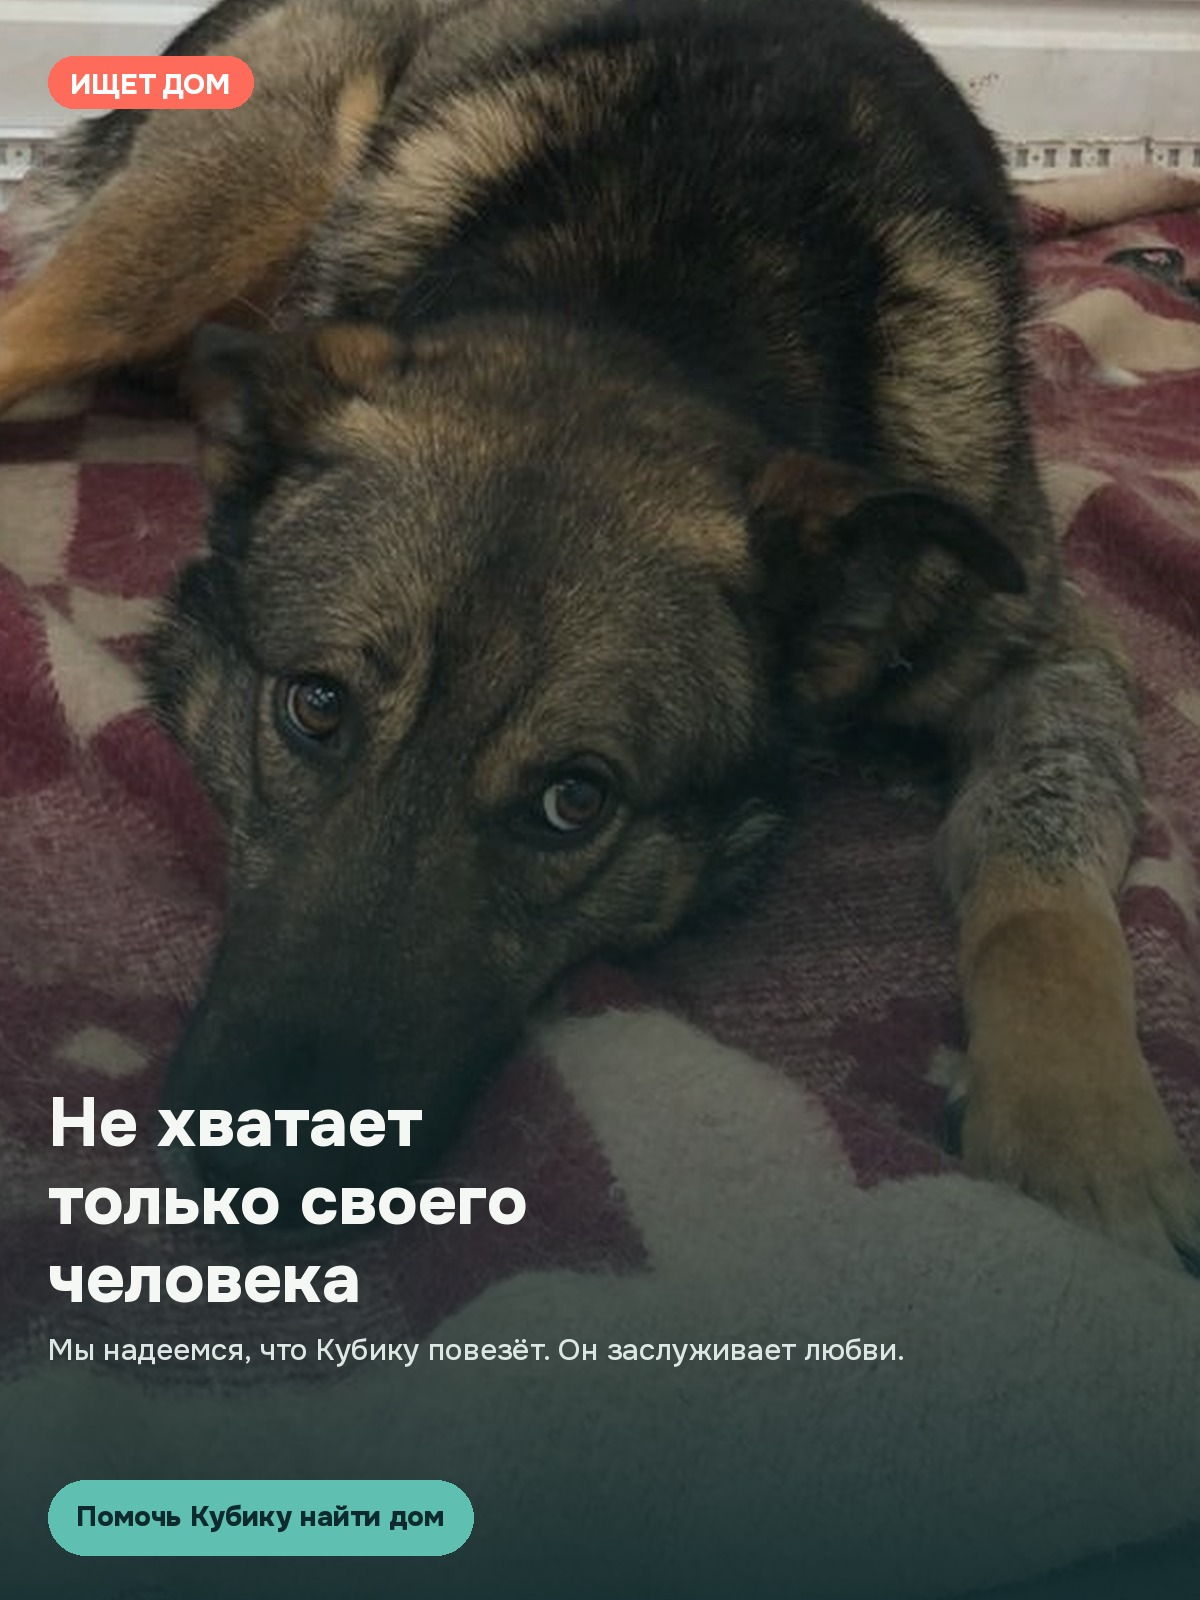
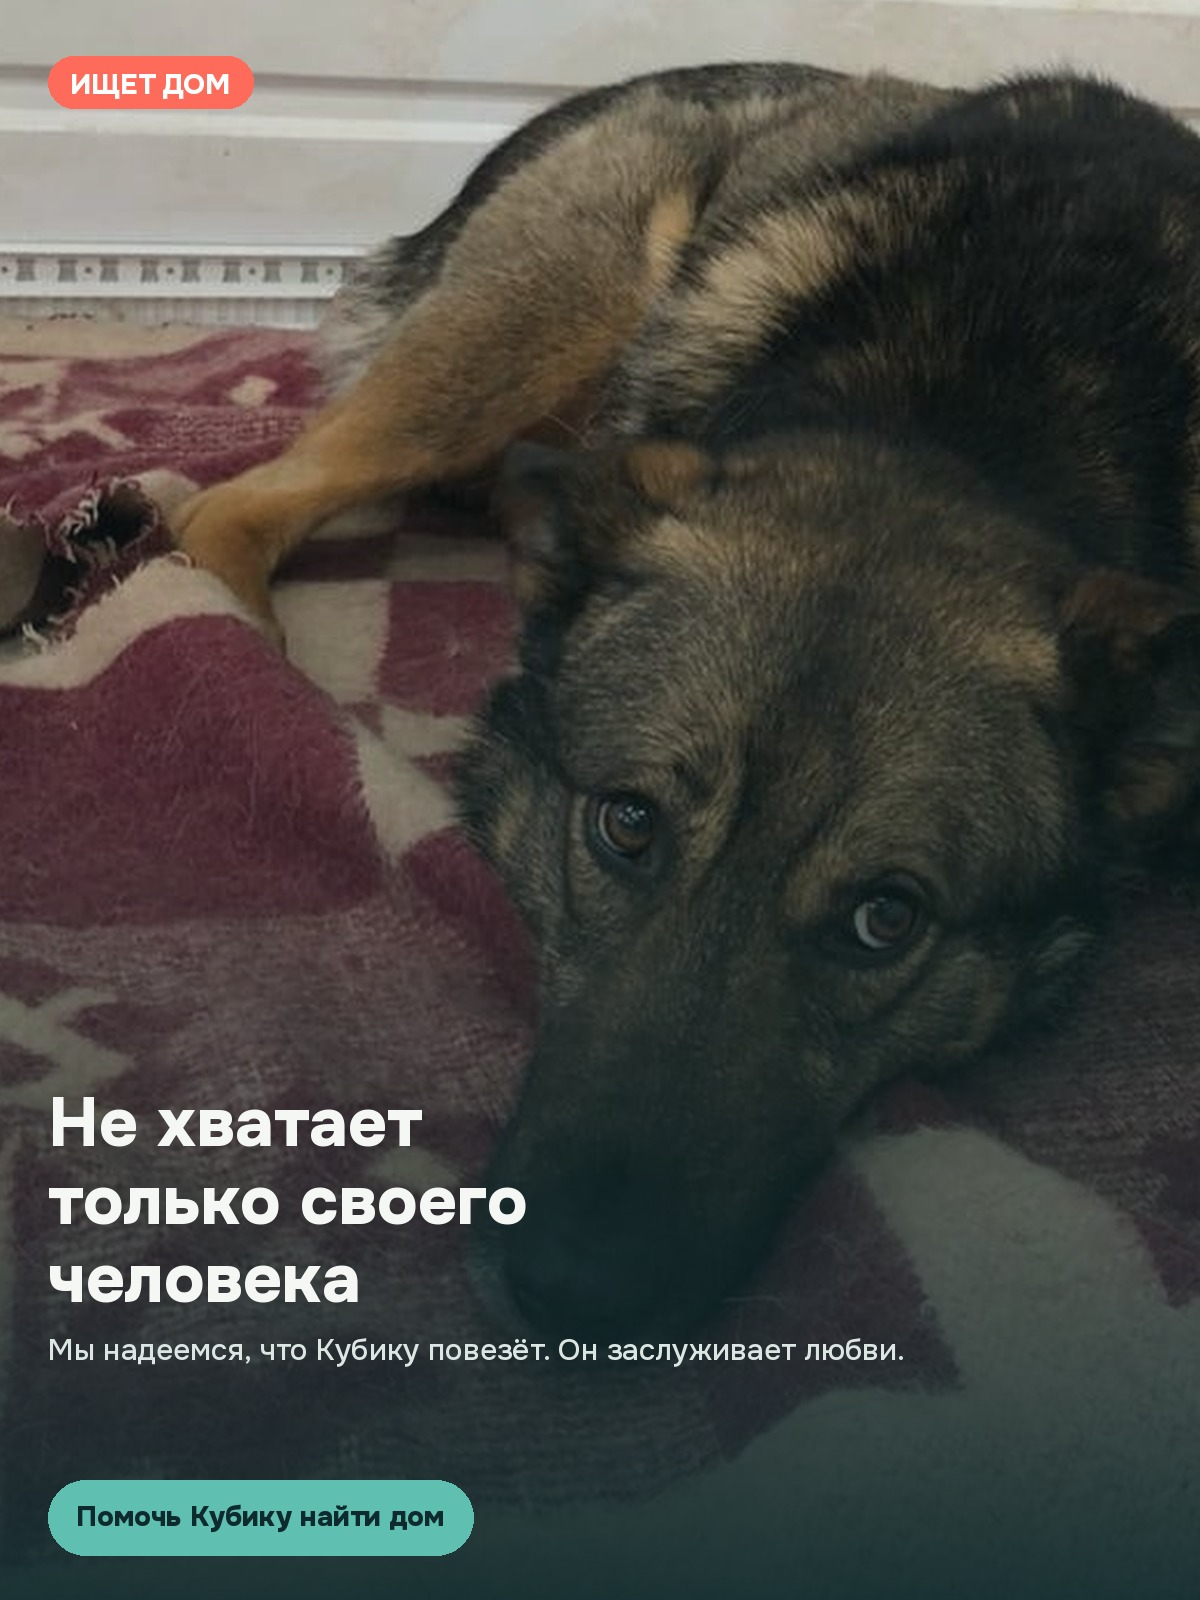
Fine-tune slide 3 face center focus

diff --git a/scripts/generate_cards.py b/scripts/generate_cards.py
@@ -46,7 +46,7 @@ FOCUS = {
     "01-outdoor-portrait.jpg": (0.55, 0.62),
     "02-outdoor-yard.jpg": (0.30, 0.62),  # grey/tan Kubik on the left
     "03-recovered-brace.jpg": (0.62, 0.45),
-    "04-soft-portrait.jpg": (0.42, 0.68),
+    "04-soft-portrait.jpg": (0.36, 0.68),
     "05-recovery-bandages.jpg": (0.52, 0.40),
     "06-recovery-crate.jpg": (0.58, 0.50),
     "07-emergency.jpg": (0.52, 0.50),
